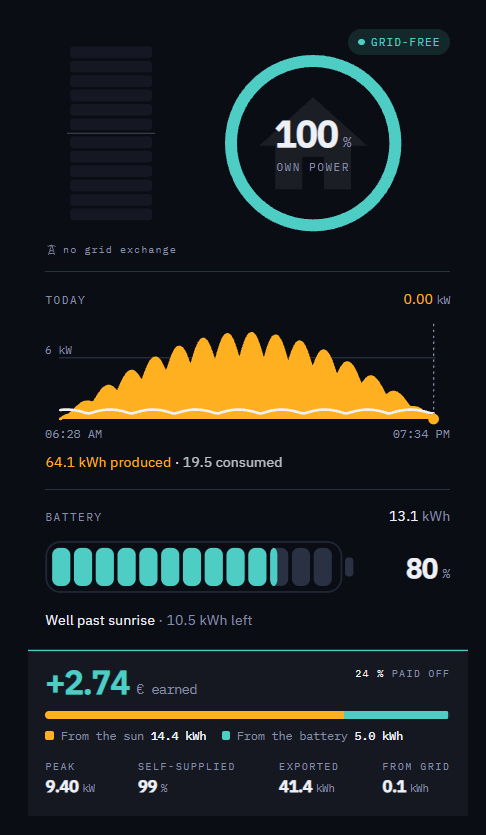
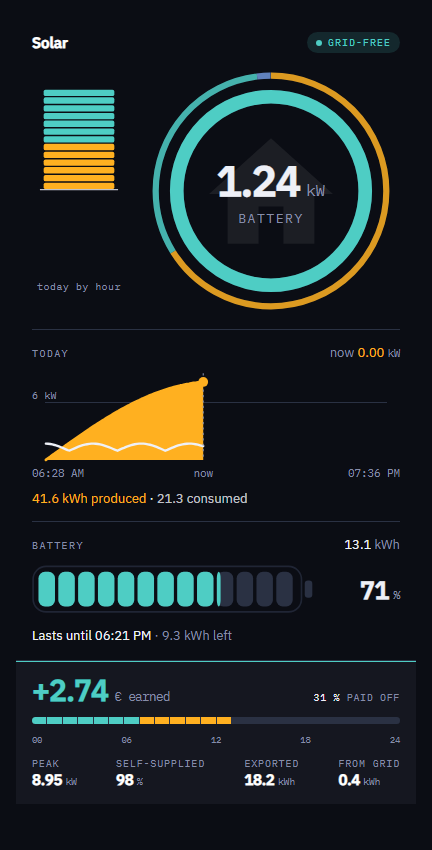
Draw the readme pictures from the card itself
Seven captures, rendered headless from the built bundle against an invented
but consistent day, so they can be redrawn whenever the card changes rather
than re-shot by hand and slowly falling behind. Every ring and column type is
in them now; the two that were there showed the card of two days ago.

Making them found a real fault: the second column drew the first one-s style.
A stepped column beside a continuous one came out continuous, so the pairing
that the option exists for could not be seen at all. It reads its own style
now, with a test that fails if the two ever agree again.

Claude-Session: https://claude.ai/code/session_01WYfcA1x3pZN41ubiYaXPxj

diff --git a/tests/render.test.ts b/tests/render.test.ts
@@ -609,3 +609,18 @@ describe("two needles", () => {
     expect(text).toContain("Aus dem Speicher");
   });
 });
+
+describe("the second column draws itself", () => {
+  it("uses its own style, not the first one’s", async () => {
+    const foggy = SCENARIOS.find((s) => s.name === "foggy morning, three sources")!;
+    const { root } = await render(
+      baseConfig({
+        ring: { meter: true, meter_style: "bar", meter_second: "blocks" }
+      }),
+      foggy
+    );
+    // The first is continuous, the second is stepped: both kinds must appear.
+    expect(root.querySelectorAll(".meter-band").length).toBeGreaterThan(0);
+    expect(root.querySelectorAll(".meter-off").length).toBeGreaterThan(0);
+  });
+});

diff --git a/src/power-origin-card.ts b/src/power-origin-card.ts
@@ -710,7 +710,7 @@ export class PowerOriginCard extends LitElement {
       <div class="meter-block">
       <svg class="meter" viewBox="0 0 88 ${METER_HEIGHT}" role="img" aria-label="${label}">
         ${
-          config.ring.meter_style === "blocks"
+          style === "blocks"
             ? meter.segments.map(
                 (segment) => svg`
                   <rect class="meter-off" x="4" y="${segment.y}" width="80"

diff --git a/README.md b/README.md
@@ -18,9 +18,27 @@ Only the house consumption sensor is required. Everything is configurable from t
 
 ## What it looks like
 
-<img src="docs/evening.png" alt="Evening: the whole house on the battery" width="430">
+<p>
+  <img src="docs/evening.png" alt="Evening: the whole house on the battery" width="290">
+  <img src="docs/grey.png" alt="A grey day: the roof is short and the grid makes up the difference" width="290">
+</p>
 
-An evening: the sun is down, the battery carries the house, and the card says how comfortably it reaches sunrise.
+Left, an evening: the sun is down, the battery carries the house, and the card says how comfortably it reaches sunrise. Right, a grey day: two columns on one scale show the roof is short by two kilowatts, which is the one thing a ring cannot say.
+
+<p>
+  <img src="docs/clock.png" alt="The clock: the whole circle is the day" width="230">
+  <img src="docs/columns.png" alt="A day strip and a live needle either side of the ring" width="330">
+</p>
+
+Left, the clock: the whole circle is the day, noon at the top, sunrise on the left, a dot for now. Right, two columns at once — the day on one side of the ring, the moment on the other.
+
+<img src="docs/modes.png" alt="The four ring modes side by side" width="600">
+
+The four questions the ring can answer, side by side.
+
+<img src="docs/no-battery.png" alt="A system without a battery" width="290">
+
+And a system without a battery: no battery block, no green anywhere. Nothing is invented for a sensor that is not there.
 
 ---
 
